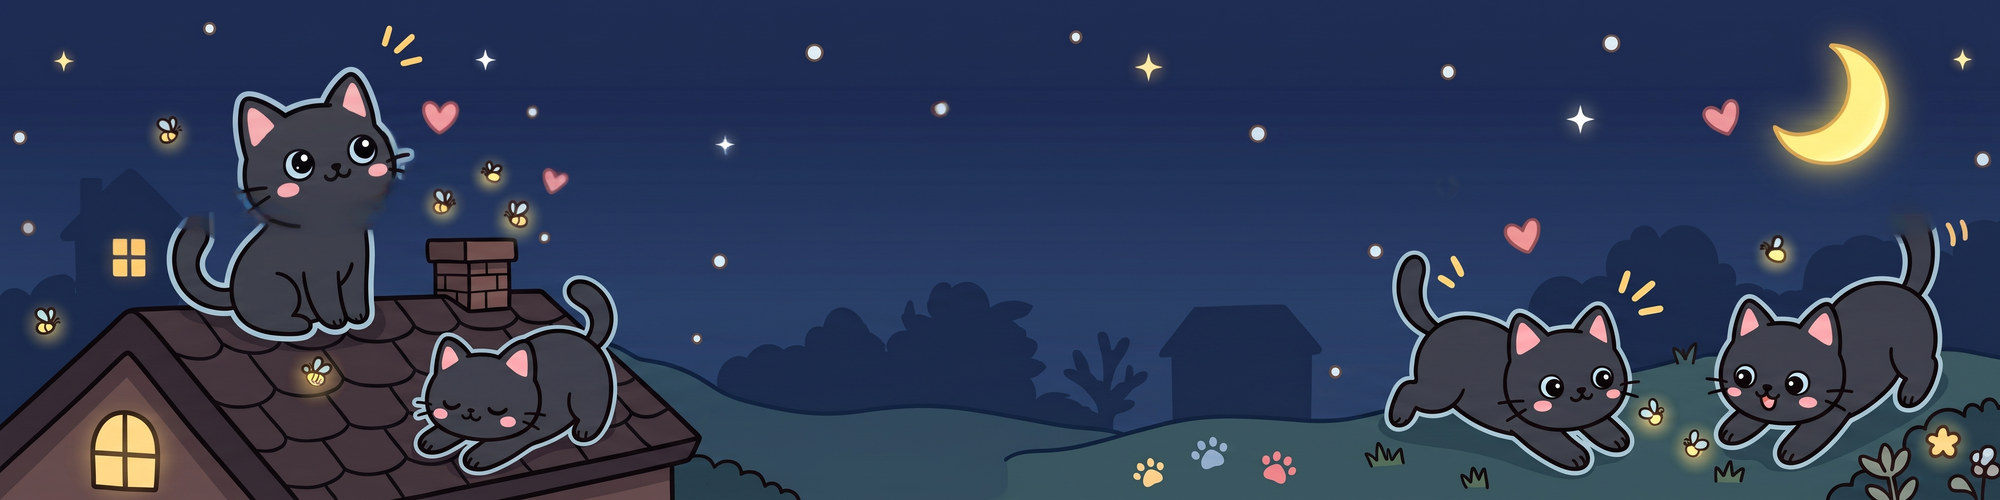
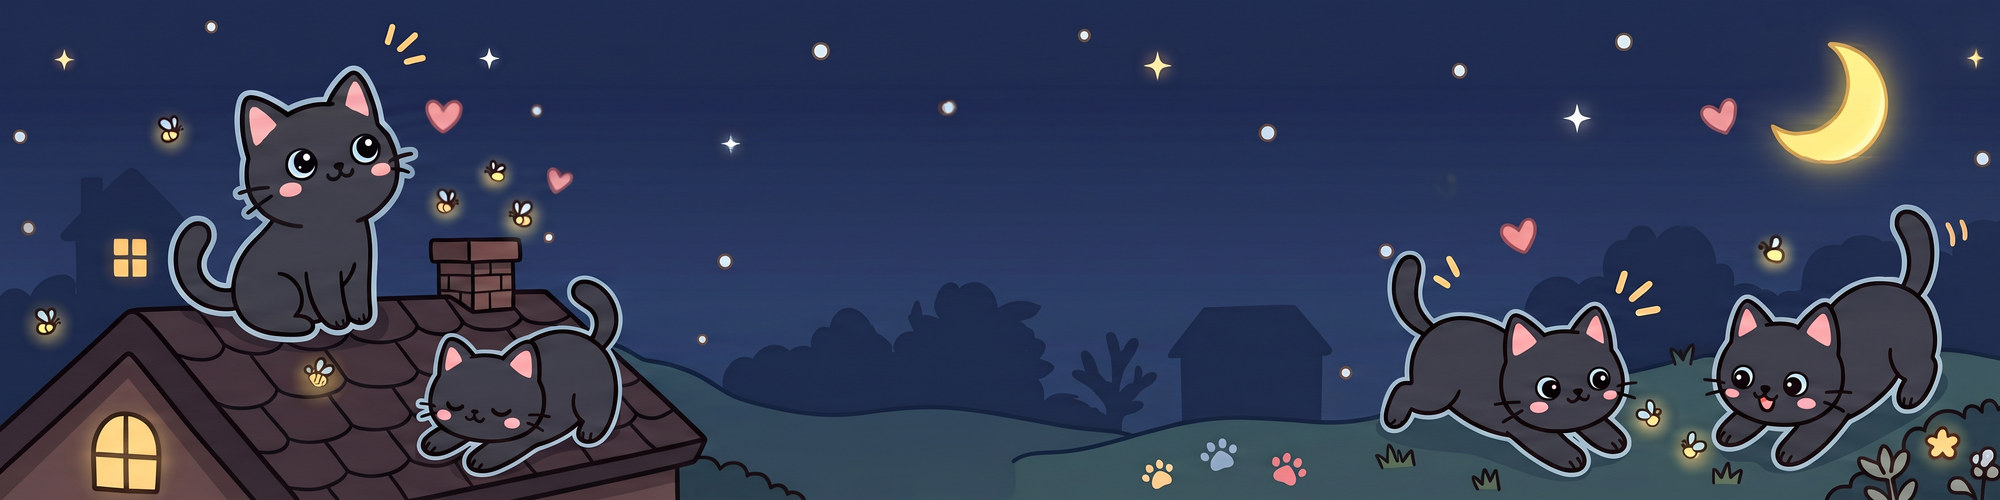
換上重做的黑貓電腦版橫幅
前一版原圖本身有生圖瑕疵（左邊貓咪臉頰旁有殘影、尾巴旁有半透明的
重複輪廓）。新圖檢查過，兩側的貓都乾淨。

diff --git a/assets/site.js b/assets/site.js
@@ -38,7 +38,7 @@ function initNav() {
    不認得就退回 JPG（兩種檔案都有，只會下載其中一種）。
    只問一次，答案記起來。 */
 // ?v= 的數字由 tools/更新版本號.py 自動換掉（見下面 HERO_V 那一行）
-var HERO_V = '?v=8b8a3d18';
+var HERO_V = '?v=998d7668';
 // 手機版和電腦版的橫幅是兩張不同的圖，這裡記住現在是哪一種螢幕
 var heroWide = window.matchMedia('(min-width: 761px)');
 var _heroExt = null;

diff --git a/games.html b/games.html
@@ -120,6 +120,6 @@
 <script src="data/games.js?v=b3bd0108"></script>
 <script src="data/news.js?v=3a98b0ab"></script>
 <script src="data/tips.js?v=6115ada7"></script>
-<script src="assets/site.js?v=dc9f616c"></script>
+<script src="assets/site.js?v=7496a86d"></script>
 </body>
 </html>

diff --git a/index.html b/index.html
@@ -203,6 +203,6 @@
 <script src="data/news.js?v=3a98b0ab"></script>
 <script src="data/tips.js?v=6115ada7"></script>
 <script src="data/games.js?v=b3bd0108"></script>
-<script src="assets/site.js?v=dc9f616c"></script>
+<script src="assets/site.js?v=7496a86d"></script>
 </body>
 </html>

diff --git a/tips.html b/tips.html
@@ -114,6 +114,6 @@
 <script src="data/cats.js?v=e34749f1"></script>
 <script src="data/tips.js?v=6115ada7"></script>
 <script src="data/games.js?v=b3bd0108"></script>
-<script src="assets/site.js?v=dc9f616c"></script>
+<script src="assets/site.js?v=7496a86d"></script>
 </body>
 </html>

diff --git a/news.html b/news.html
@@ -108,6 +108,6 @@
 
 <script src="data/cats.js?v=e34749f1"></script>
 <script src="data/news.js?v=3a98b0ab"></script>
-<script src="assets/site.js?v=dc9f616c"></script>
+<script src="assets/site.js?v=7496a86d"></script>
 </body>
 </html>

diff --git a/shop.html b/shop.html
@@ -112,6 +112,6 @@
 
 <script src="data/cats.js?v=e34749f1"></script>
 <script src="data/shop.js?v=f6c32ecd"></script>
-<script src="assets/site.js?v=dc9f616c"></script>
+<script src="assets/site.js?v=7496a86d"></script>
 </body>
 </html>

diff --git a/tip.html b/tip.html
@@ -98,6 +98,6 @@
 
 <script src="data/cats.js?v=e34749f1"></script>
 <script src="data/tips.js?v=6115ada7"></script>
-<script src="assets/site.js?v=dc9f616c"></script>
+<script src="assets/site.js?v=7496a86d"></script>
 </body>
 </html>

diff --git a/about.html b/about.html
@@ -136,6 +136,6 @@
 </footer>
 
 <script src="data/cats.js?v=e34749f1"></script>
-<script src="assets/site.js?v=dc9f616c"></script>
+<script src="assets/site.js?v=7496a86d"></script>
 </body>
 </html>

diff --git a/adopt.html b/adopt.html
@@ -119,6 +119,6 @@
 </footer>
 
 <script src="data/cats.js?v=e34749f1"></script>
-<script src="assets/site.js?v=dc9f616c"></script>
+<script src="assets/site.js?v=7496a86d"></script>
 </body>
 </html>

diff --git a/adopted.html b/adopted.html
@@ -110,6 +110,6 @@
 </footer>
 
 <script src="data/cats.js?v=e34749f1"></script>
-<script src="assets/site.js?v=dc9f616c"></script>
+<script src="assets/site.js?v=7496a86d"></script>
 </body>
 </html>

diff --git a/cats.html b/cats.html
@@ -126,6 +126,6 @@
 </footer>
 
 <script src="data/cats.js?v=e34749f1"></script>
-<script src="assets/site.js?v=dc9f616c"></script>
+<script src="assets/site.js?v=7496a86d"></script>
 </body>
 </html>

diff --git a/support.html b/support.html
@@ -124,6 +124,6 @@
 </footer>
 
 <script src="data/cats.js?v=e34749f1"></script>
-<script src="assets/site.js?v=dc9f616c"></script>
+<script src="assets/site.js?v=7496a86d"></script>
 </body>
 </html>
